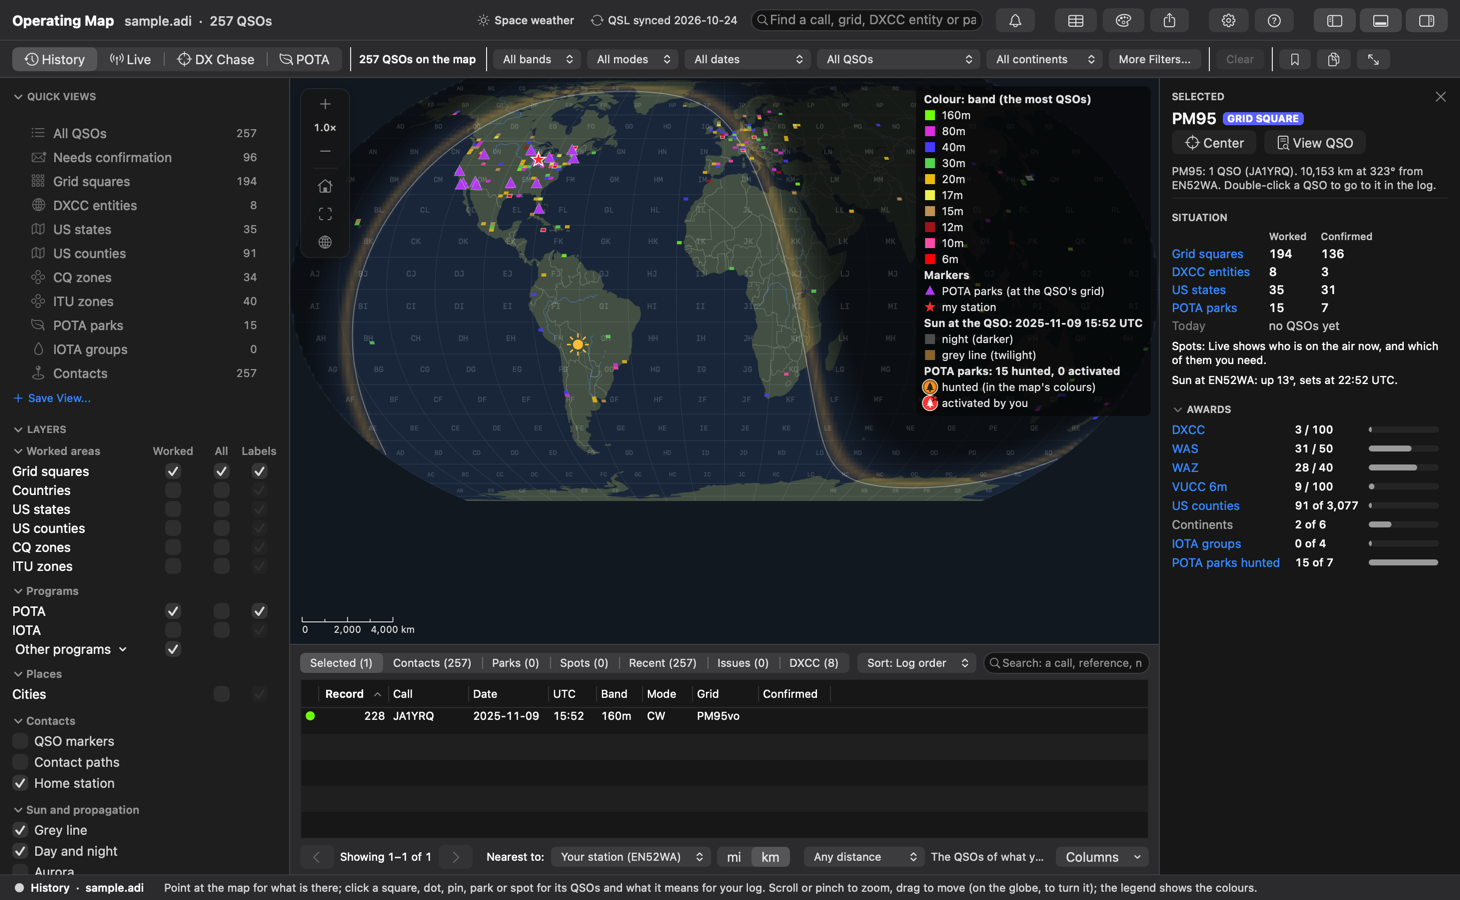
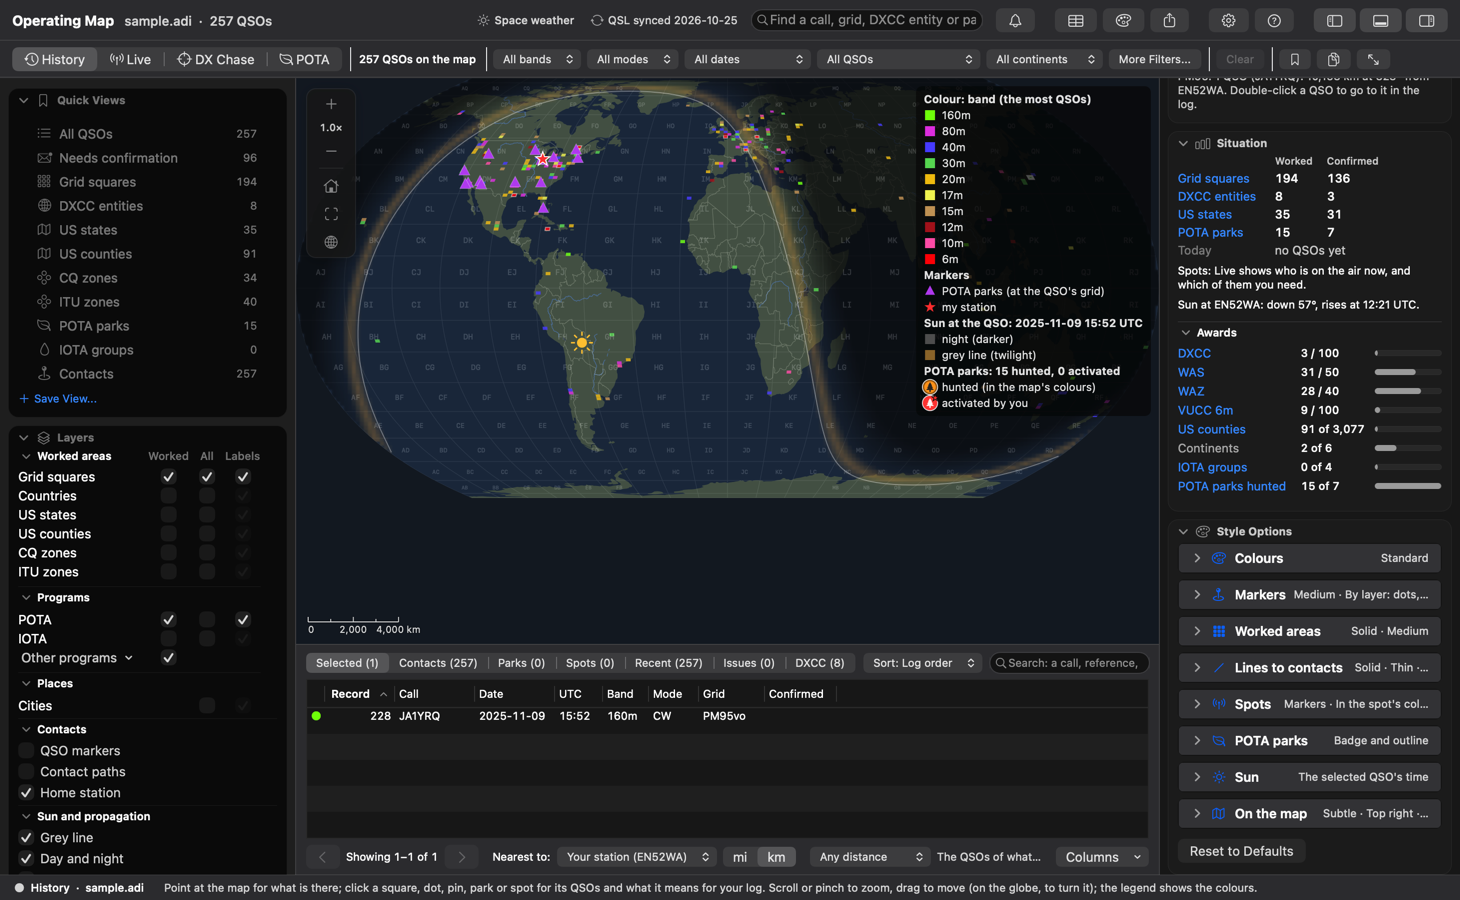
Release 1.5.0
Version 1.5.0; the changelog dated; every documentation screenshot
taken again with the Map's cards (the docs harness uses the Terrain
layer); the cards' heading summaries carry their whole text as a
tooltip, for when the panel is too narrow for them.

diff --git a/tests/host_harness.mm b/tests/host_harness.mm
@@ -6479,10 +6479,15 @@ int main(int argc, char **argv) {
                         if (viewWithIdentifier(w.contentView, @"map.solar.on")) [w orderOut:nil];
                 }
                 // Terrain over the Alps.
-                CHECK(stylePick(@"terrain", @"Strong"), "docs: terrain");
+                NSButton *terrainOn = (NSButton *)viewWithIdentifier(mapw.contentView, @"map.terrain");
+                NSPopUpButton *terrainHow = (NSPopUpButton *)viewWithIdentifier(mapw.contentView, @"map.terrain.strength");
+                [terrainHow selectItemWithTitle:@"Strong"];
+                [terrainHow sendAction:terrainHow.action to:terrainHow.target];
+                setBox(terrainOn, true);
+                CHECK(terrainOn && terrainOn.state == NSControlStateValueOn, "docs: terrain");
                 showBox(3, 42.5, 17, 49);
                 snapshot(mapw, "docs-map-terrain");
-                stylePick(@"terrain", @"Off");
+                setBox(terrainOn, false);
                 // Back to the defaults.
                 stylePick(@"palette", @"Standard");
                 stylePick(@"width", @"Medium");

diff --git a/src/plugin/Accordion.mm b/src/plugin/Accordion.mm
@@ -90,6 +90,7 @@
 - (void)setSummary:(NSString *)summary {
     _summary = [summary copy];
     _summaryField.stringValue = summary ?: @"";
+    _summaryField.toolTip = summary.length ? summary : nil;  // whole when the heading is too narrow for it
     _summaryField.hidden = summary.length == 0;
 }
 

diff --git a/src/plugin/ADIFLint.mm b/src/plugin/ADIFLint.mm
@@ -81,7 +81,7 @@
 #include <vector>
 
 #ifndef ADIFLINT_VERSION
-#define ADIFLINT_VERSION "1.4.1"
+#define ADIFLINT_VERSION "1.5.0"
 #endif
 
 static const char kPluginName[] = "ADIF Lint";

diff --git a/CHANGELOG.md b/CHANGELOG.md
@@ -9,6 +9,8 @@ Versions before 0.8.0 were development builds and were not published.
 
 ## [Unreleased]
 
+## [1.5.0] - 2026-10-25
+
 ### Changed
 
 - **Settings** live in the Map: a **Settings** card in the selected panel, in place of the
@@ -811,7 +813,8 @@ First public release.
 - **Fix Lengths**, as one undo step, and **Count Lengths in Characters**.
 - The `adiflint` command-line tool.
 
-[Unreleased]: https://github.com/ssamjung2/Nextpad_plus_plus_ADIFLint/compare/v1.4.1...HEAD
+[Unreleased]: https://github.com/ssamjung2/Nextpad_plus_plus_ADIFLint/compare/v1.5.0...HEAD
+[1.5.0]: https://github.com/ssamjung2/Nextpad_plus_plus_ADIFLint/compare/v1.4.1...v1.5.0
 [1.4.1]: https://github.com/ssamjung2/Nextpad_plus_plus_ADIFLint/compare/v1.4.0...v1.4.1
 [1.4.0]: https://github.com/ssamjung2/Nextpad_plus_plus_ADIFLint/compare/v1.3.0...v1.4.0
 [1.3.0]: https://github.com/ssamjung2/Nextpad_plus_plus_ADIFLint/compare/v1.2.0...v1.3.0
